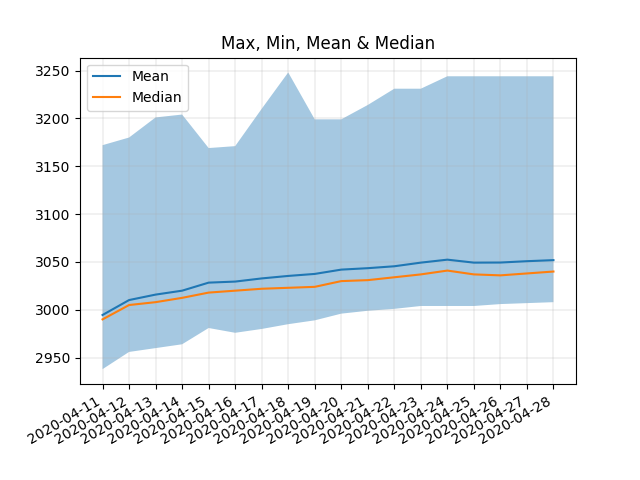
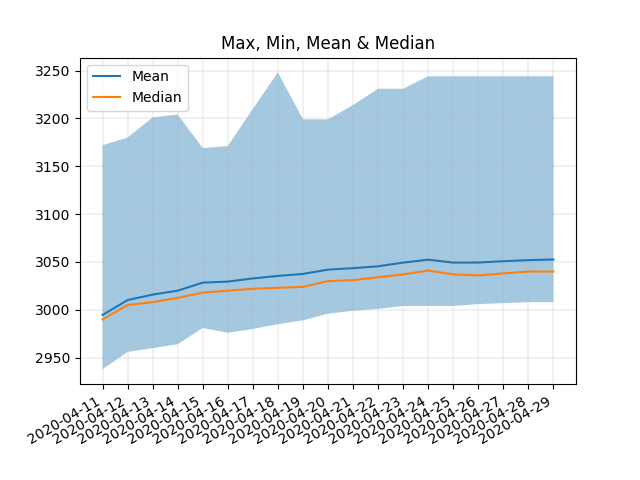
Wed Apr 29 15:30:14 EDT 2020

diff --git a/README.md b/README.md
@@ -1,10 +1,11 @@
 # MMR Drift Status
 
-**Last Updated (UTC):** 2020-04-28 21:15:12.931857
+**Last Updated (UTC):** 2020-04-29 19:30:13.735412
 ![Figure 1](/images/fig1.png)
 ![Figure 2](/images/fig2.png)
 |date| min| max| mean| drift_daily| drift_total| median| stdev|
 |:---|:---|:---|:---|:---|:---|:---|:--- |
+|2020-04-29| 3008| 3244| 3052.6| 0.6| 57.9| 3040.0| 40.1|
 |2020-04-28| 3008| 3244| 3051.9| 1.1| 57.3| 3040.0| 39.3|
 |2020-04-27| 3007| 3244| 3050.8| 1.5| 56.2| 3038.0| 39.7|
 |2020-04-26| 3006| 3244| 3049.4| 0.1| 54.7| 3036.0| 40.5|
